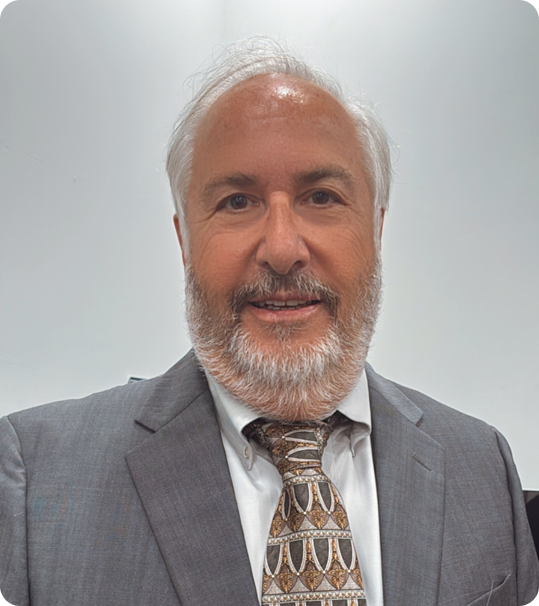
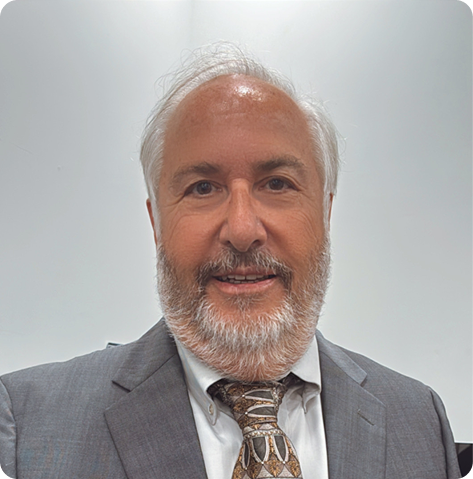
padding and image correction

diff --git a/components/AboutUs/AboutUsMainContent.tsx b/components/AboutUs/AboutUsMainContent.tsx
@@ -13,8 +13,8 @@ import SelectedIcon from "../Icons/SelectedIcon";
 const AboutUsMainContent = () => {
   return (
     <div>
-      <div className="bg-[#FBFBFB]">
-        <div className="maxContainer lg:py-[100px] py-[60px]">
+      <div className="bg-[#FBFBFB] pt-10">
+        <div className="maxContainer md:py-[60px] py-[40px]">
           <div className="flex lg:flex-row flex-col md:justify-between xl:gap-[96px] gap-10 lg:items-center">
             <div className="lg:w-[35.75%]">
               <div>
@@ -29,7 +29,7 @@ const AboutUsMainContent = () => {
                 />
               </div>
             </div>
-            <div className="flex-1 flex flex-col gap-5">
+            <div className="flex-1 flex flex-col gap-5 ">
               <h2 className="headerText text-[#1D1F2C] !font-semibold">
                 Comfort. Safety. Results
               </h2>
@@ -41,7 +41,7 @@ const AboutUsMainContent = () => {
         </div>
       </div>
       <div className="">
-        <div className="maxContainer lg:py-[100px] py-[60px]">
+        <div className="maxContainer md:py-[60px] py-[40px]">
           <div className="flex lg:flex-row flex-col md:justify-between xl:gap-[46px] gap-6 lg:items-center">
             <div className="lg:w-[40.83%] lg:order-2">
               <div>
@@ -81,7 +81,7 @@ const AboutUsMainContent = () => {
       <div>
         {sectionsData.map((section, index) => (
           <div key={index} className={`${index % 2 === 0 ? "bg-[#FBFBFB] " : ""}`}>
-            <div className="maxContainer lg:py-[100px] py-[60px]">
+            <div className="maxContainer md:py-[60px] py-[40px]">
               <div key={index} className="flex flex-col lg:flex-row lg:items-center gap-12 ">
                 <div className={ `lg:flex-1 ${index % 2 === 1 ? "lg:order-1" : ""} `}>
                   <Image

diff --git a/components/ConditionTherapy/Counseling.tsx b/components/ConditionTherapy/Counseling.tsx
@@ -44,7 +44,7 @@ const Counseling = () => {
 
 
   return (
-    <div className="maxContainer xl:py-[100px] py-[60px]" id="ourTherapy">
+    <div className="maxContainer xl:py-[60px] py-[40px]" id="ourTherapy">
       <div className="">
         <p className="sectionCategory !w-auto !inline-flex">Our Therapy</p>
         <h1 className="headerText !font-medium text-[#1D1F2C] mt-3">

diff --git a/components/ConditionTherapy/OurCondition.tsx b/components/ConditionTherapy/OurCondition.tsx
@@ -12,7 +12,7 @@ const OurCondition = () => {
 
   return (
     <div >
-      <div className="maxContainer md:py-[100px] py-[60px]">
+      <div className="maxContainer md:py-[60px] py-[40px]">
         <div className="">
           <p className="sectionCategory !w-auto !inline-flex">Our Conditions</p>
           <h1 className="headerText !font-medium text-[#1D1F2C] mt-3">
